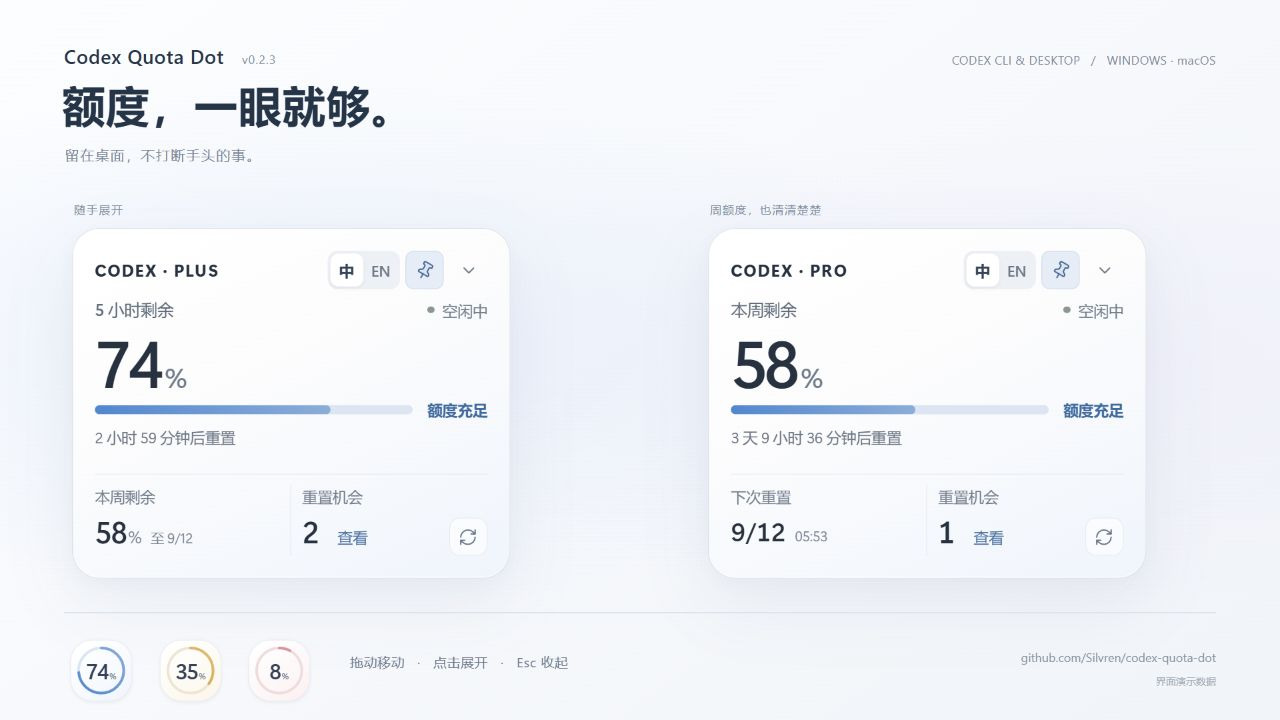
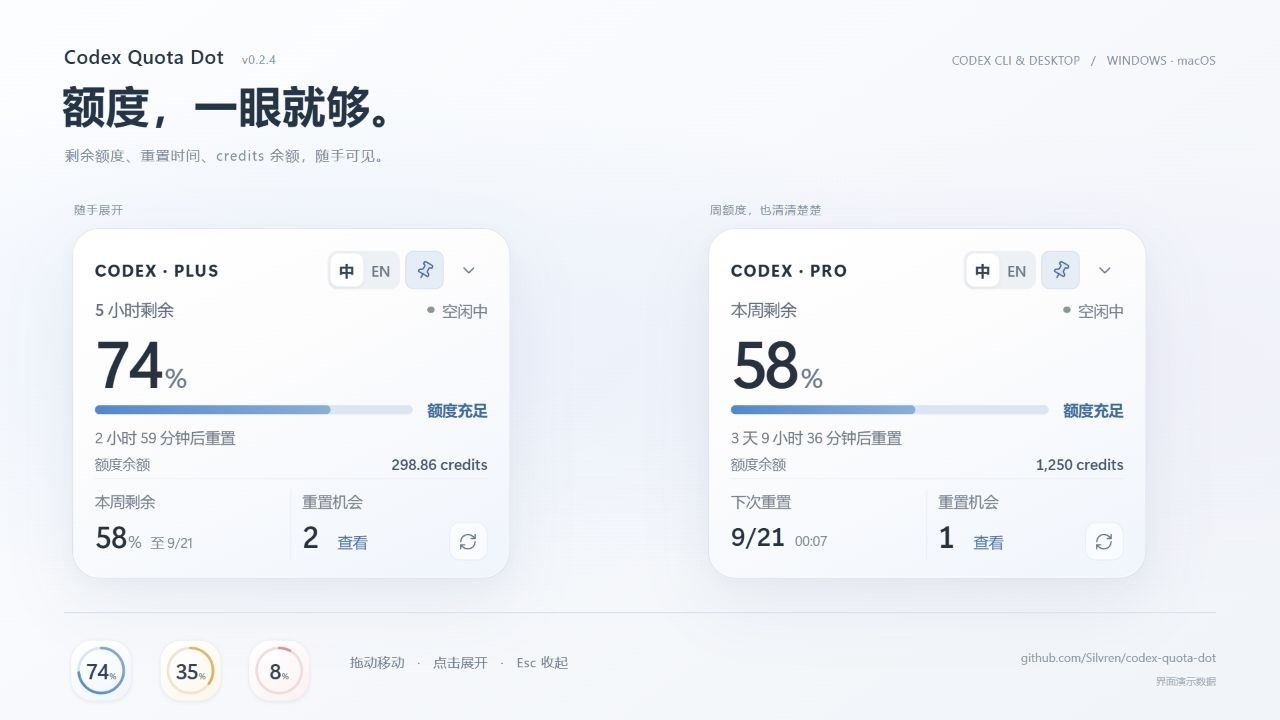
docs: prepare v0.2.4 release and refresh showcase

diff --git a/README.md b/README.md
@@ -16,7 +16,7 @@ A lightweight, privacy-first **Codex CLI and Codex Desktop quota widget for Wind
 
 ## Interface preview
 
-![Codex Quota Dot v0.2.3: Plus and Pro quota cards with three colored quota orbs](assets/codex-quota-dot-ui.jpg)
+![Codex Quota Dot v0.2.4: Plus and Pro quota cards with three colored quota orbs](assets/codex-quota-dot-ui.jpg)
 
 The surface changes with the active quota window: blue for healthy (`50–100%`), amber for caution (`10–50%`), and coral for critical (`0–10%`). If Codex omits the short window, the orb falls back to weekly quota and displays a `周` / `W` marker.
 
@@ -32,11 +32,11 @@ Download the latest build from [GitHub Releases](https://github.com/Silvren/code
 
 ## Current status
 
-`v0.2.3` adapts to the quota periods Codex actually returns, including weekly-only accounts. It retains the compact interface, reset-credit expiration details, and explicit cached/error states. Windows x64 and both macOS architectures have passing release builds.
+`v0.2.4` adapts to the quota periods Codex actually returns, including weekly-only accounts. It retains the compact interface, reset-credit expiration details, and explicit cached/error states. Release packages target Windows x64 and both macOS architectures.
 
-### Development preview: credit balance
+### Credit balance
 
-The unreleased `v0.2.4` displays the balance returned by Codex in the expanded card, using the existing refresh flow and window size. Values are **credits, not USD**: the Settings currency amount requires additional pricing metadata and is not converted here. Missing balances display `—`, not zero. This feature is not yet available in Releases.
+`v0.2.4` displays the balance returned by Codex in the expanded card, using the existing refresh flow and window size. Values are **credits, not USD**: the Settings currency amount requires additional pricing metadata and is not converted here. Missing balances display `—`, not zero. See the v0.2.4 release assets for downloads.
 
 ### Start in three steps
 

diff --git a/README.zh-CN.md b/README.zh-CN.md
@@ -8,7 +8,7 @@
 
 > 独立开源项目，与 OpenAI 无隶属关系，也未获其背书。
 
-![Codex Quota Dot v0.2.3：Plus、Pro 额度卡片与三色悬浮球](assets/codex-quota-dot-ui.jpg)
+![Codex Quota Dot v0.2.4：Plus、Pro 额度卡片与三色悬浮球](assets/codex-quota-dot-ui.jpg)
 
 ## 它解决什么问题？
 
@@ -24,7 +24,7 @@
 
 ## 下载和使用
 
-从 [GitHub Releases 下载 v0.2.3 或更新版本](https://github.com/Silvren/codex-quota-dot/releases/latest)：
+从 [GitHub Releases 下载 v0.2.4 或更新版本](https://github.com/Silvren/codex-quota-dot/releases/latest)：
 
 | 你的系统 | 选择的文件 |
 | --- | --- |
@@ -40,9 +40,9 @@
 
 当前安装包未签名。请只从本仓库 Releases 下载，并核对旁边的 SHA-256 文件；不要为运行软件关闭安全防护。参见 [Windows 下载验证说明](docs/windows-download-safety.md)。
 
-## 开发版新增：额度余额
+## 新增：额度余额
 
-`v0.2.4` 开发版在展开卡片中显示 Codex 返回的余额，随配额一起刷新，不增加窗口尺寸。当前单位为 **credits 点数**，不是美元；设置页的货币余额需要额外的价格配置，暂不换算。缺失数据显示 `—`，不会当作零余额。此功能尚未发布到 Releases。
+`v0.2.4`在展开卡片中显示 Codex 返回的余额，随配额一起刷新，不增加窗口尺寸。当前单位为 **credits 点数**，不是美元；设置页的货币余额需要额外的价格配置，暂不换算。缺失数据显示 `—`，不会当作零余额。下载请查看 Releases 中对应版本的附件。
 
 ## 额度为什么有时不显示？
 

diff --git a/docs/release-notes-v0.2.4.md b/docs/release-notes-v0.2.4.md
@@ -1,0 +1,16 @@
+# Codex Quota Dot v0.2.4
+
+![Codex Quota Dot v0.2.4](https://raw.githubusercontent.com/Silvren/codex-quota-dot/v0.2.4/assets/codex-quota-dot-ui.jpg)
+
+不用为了看余额再打开设置了。这次把 credits 余额放进展开卡片，和剩余额度、重置时间一起看。
+
+- 新增额度余额，随配额一起刷新；单位是 **credits 点数，不是美元金额**。
+- 零余额、未返回数据、不限额和缓存数据分别显示，不把缺失数据当成零。
+- 卡片仍为 320 × 256，小球仍为 56 px，没有增加依赖。
+- 保留 Plus / Pro 等账号按实际周期展示、中英切换、拖动、点击展开和可取消置顶。
+
+Adds credit balance to the compact card, using the existing read-only Codex app-server response. Balances are credits, not USD; no currency conversion or payment integration is included.
+
+此前已完成 53 项前端单元测试、15 项 Rust 单元测试和真实账号只读余额链路验证。本次发布不再查询账号余额；构建流程由 GitHub Actions 执行。
+
+安装包未签名。请核对附件中的 SHA-256 校验文件。

diff --git a/CHANGELOG.md b/CHANGELOG.md
@@ -1,5 +1,16 @@
 # Changelog
 
+## [0.2.4] - 2026-09-17
+
+- Added credit balance to the compact card, using the existing Codex app-server response and refresh flow.
+- Label balances in credits, not currency; preserve zero, missing, unlimited and cached states.
+- Kept the 320 × 256 card and existing dependencies; refreshed the interface showcase.
+
+## [0.2.3] - 2026-09-07
+
+- Adapted quota display to actual returned periods, including weekly-only and custom-duration windows.
+- Kept absent data distinct from unlimited quota and retained old-cache compatibility.
+
 ## [0.2.2] - 2026-09-06
 
 ### Changed
